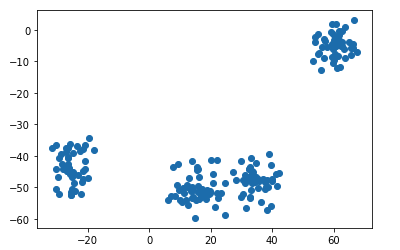
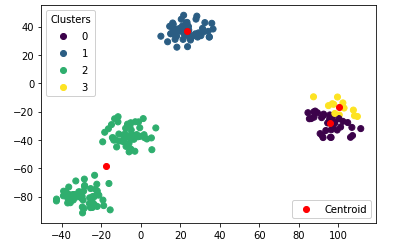
rebuilding site Thu Feb 27 19:12:35 PST 2020

Changed region(s): [[0.0304, 0.0, 0.9722, 0.98], [0.1519, 0.252, 0.1823, 0.308], [0.1519, 0.196, 0.1823, 0.224]]

diff --git a/posts/k-means-clustering/index.html b/posts/k-means-clustering/index.html
@@ -1173,7 +1173,7 @@ if (!doNotTrack) {
     <div class="single__meta">
       
 <div class="single__infos">
-  <time class="single__info" title="Written At">📅&nbsp;Feb 18, 2020 </time>  &middot; <span class="single__info" title="Reading Time"> ☕ 5 min read </span>
+  <time class="single__info" title="Written At">📅&nbsp;Feb 18, 2020 </time>  &middot; <span class="single__info" title="Reading Time"> ☕ 6 min read </span>
   <span class="single__info">
     
   </span>
@@ -1335,18 +1335,11 @@ Then gernate total n data points randomly within the radius r centering at each 
 </span><span class="lnt">51
 </span><span class="lnt">52
 </span><span class="lnt">53
-</span><span class="lnt">54
-</span><span class="lnt">55
-</span><span class="lnt">56
-</span><span class="lnt">57
-</span><span class="lnt">58
 </span></code></pre></td>
 <td class="lntd">
 <pre class="chroma"><code class="language-python" data-lang="python"><span class="c1"># calculate distance between two points</span>
 <span class="k">def</span> <span class="nf">dist</span><span class="p">(</span><span class="n">a</span><span class="p">,</span><span class="n">b</span><span class="p">)</span><span class="p">:</span>
-    <span class="n">d</span> <span class="o">=</span> <span class="p">(</span><span class="n">a</span><span class="p">[</span><span class="mi">0</span><span class="p">]</span><span class="o">-</span><span class="n">b</span><span class="p">[</span><span class="mi">0</span><span class="p">]</span><span class="p">)</span><span class="o">*</span><span class="o">*</span><span class="mi">2</span> <span class="o">+</span> <span class="p">(</span><span class="n">a</span><span class="p">[</span><span class="mi">1</span><span class="p">]</span><span class="o">-</span><span class="n">b</span><span class="p">[</span><span class="mi">1</span><span class="p">]</span><span class="p">)</span><span class="o">*</span><span class="o">*</span><span class="mi">2</span>
-    <span class="n">d</span> <span class="o">=</span> <span class="n">math</span><span class="o">.</span><span class="n">sqrt</span><span class="p">(</span><span class="n">d</span><span class="p">)</span>
-    <span class="k">return</span> <span class="n">d</span>
+    <span class="k">return</span> <span class="n">np</span><span class="o">.</span><span class="n">sum</span><span class="p">(</span><span class="p">(</span><span class="n">a</span> <span class="o">-</span> <span class="n">b</span><span class="p">)</span><span class="o">*</span><span class="o">*</span><span class="mi">2</span><span class="p">)</span>
 
 <span class="c1"># find xy coordinates of the centroid of a cluster</span>
 <span class="k">def</span> <span class="nf">cent_mass</span><span class="p">(</span><span class="n">data</span><span class="p">)</span><span class="p">:</span>
@@ -1358,10 +1351,7 @@ Then gernate total n data points randomly within the radius r centering at each 
 
 <span class="c1"># Assign initial k centroids by randomly selecting k samples from data</span>
 <span class="k">def</span> <span class="nf">init_centroid</span><span class="p">(</span><span class="n">k</span><span class="p">,</span><span class="n">data</span><span class="p">)</span><span class="p">:</span>
-    <span class="n">data_len</span> <span class="o">=</span> <span class="n">data</span><span class="o">.</span><span class="n">shape</span><span class="p">[</span><span class="mi">0</span><span class="p">]</span>
-    <span class="n">ind_rand</span> <span class="o">=</span> <span class="n">np</span><span class="o">.</span><span class="n">random</span><span class="o">.</span><span class="n">randint</span><span class="p">(</span><span class="n">low</span> <span class="o">=</span> <span class="mi">0</span><span class="p">,</span> <span class="n">high</span> <span class="o">=</span> <span class="n">data_len</span><span class="o">-</span><span class="mi">1</span><span class="p">,</span> <span class="n">size</span> <span class="o">=</span> <span class="n">k</span><span class="p">)</span>
-    <span class="n">k_init</span> <span class="o">=</span> <span class="n">data</span><span class="p">[</span><span class="n">ind_rand</span><span class="p">]</span>
-    <span class="k">return</span> <span class="n">k_init</span>
+    <span class="k">return</span> <span class="n">data</span><span class="p">[</span><span class="n">np</span><span class="o">.</span><span class="n">random</span><span class="o">.</span><span class="n">randint</span><span class="p">(</span><span class="n">data</span><span class="o">.</span><span class="n">shape</span><span class="p">[</span><span class="mi">0</span><span class="p">]</span><span class="p">,</span><span class="n">size</span> <span class="o">=</span> <span class="n">k</span><span class="p">)</span><span class="p">,</span><span class="p">:</span><span class="p">]</span>
 
 <span class="k">def</span> <span class="nf">k_means</span><span class="p">(</span><span class="n">k</span><span class="p">,</span><span class="n">data</span><span class="p">)</span><span class="p">:</span>
     <span class="n">k_init</span> <span class="o">=</span> <span class="n">init_centroid</span><span class="p">(</span><span class="n">k</span><span class="p">,</span> <span class="n">data</span><span class="p">)</span>
@@ -1435,13 +1425,104 @@ Then gernate total n data points randomly within the radius r centering at each 
 </div><p><image src="/kmeans/kmeans result.png"></image></p>
 <p>The result shows that the algorithm captures 3 clusters successfully.</p>
 <p>However, k-means clustering algorithm can be affected by the initial centroids when clusters are dispersed. For example, if two randomly selected initial centroids are located within the same cluster, they can be converged within the same cluster. Here is the example plots.</p>
-<p><image src="/kmeans/dispersed cluster result.png"></image></p>
-<p>This plot shows that two centroids on the left side are converged within the same cluster while the centroid at the bottom is converged with two clusters. In order to resolve this problem, we can add one additional steps.</p>
-<h2 id="additional-steps">Additional steps</h2>
-<ol start="5">
-<li>Iterate previous 1-4 steps multiple times and store the sum of variance of each cluster</li>
-<li>Find the centroids which make the total sum of variance of clusters to be minimum</li>
+<p><image src="/kmeans/dispersed cluster.png"></image></p>
+<p>This plot shows that two centroids on the right side are converged within the same cluster while the centroid on the left side is converged with two clusters. One way of resolving this problem is to make sure initial centroids are further apart. This method is called k-means++ algorithm.</p>
+<h2 id="k-means-algorithm">K-means++ algorithm</h2>
+<p>Now, instead of selecting random initial centroids from the data set, we first pick one centroid and then other centroids are selected based on maximum distance. Here is the steps of k-means++ algorithm.</p>
+<ol>
+<li>Pick one intial centroid randomly from the data set</li>
+<li>Compute distance of each data point from the centroid and assign a point which has the largest distance as the next centroid</li>
+<li>Compute the closest distance of each data point from each centroid</li>
+<li>Assign a point which has the maximum value as the next centroid</li>
+<li>Repeat 3 and 4 until k centroids are selected</li>
 </ol>
+<p>Here is the k-means++ code in python.</p>
+<div class="highlight"><div class="chroma">
+<table class="lntable"><tr><td class="lntd">
+<pre class="chroma"><code><span class="lnt"> 1
+</span><span class="lnt"> 2
+</span><span class="lnt"> 3
+</span><span class="lnt"> 4
+</span><span class="lnt"> 5
+</span><span class="lnt"> 6
+</span><span class="lnt"> 7
+</span><span class="lnt"> 8
+</span><span class="lnt"> 9
+</span><span class="lnt">10
+</span><span class="lnt">11
+</span><span class="lnt">12
+</span><span class="lnt">13
+</span><span class="lnt">14
+</span><span class="lnt">15
+</span><span class="lnt">16
+</span><span class="lnt">17
+</span><span class="lnt">18
+</span></code></pre></td>
+<td class="lntd">
+<pre class="chroma"><code class="language-python" data-lang="python"><span class="c1"># Select initial k centroids by finding a point which is farthest</span>
+<span class="k">def</span> <span class="nf">init_centroid_better</span><span class="p">(</span><span class="n">k</span><span class="p">,</span><span class="n">data</span><span class="p">)</span><span class="p">:</span>
+    <span class="n">k_init</span> <span class="o">=</span> <span class="p">[</span><span class="p">]</span>
+    <span class="n">k_init</span><span class="o">.</span><span class="n">append</span><span class="p">(</span><span class="n">data</span><span class="p">[</span><span class="n">np</span><span class="o">.</span><span class="n">random</span><span class="o">.</span><span class="n">randint</span><span class="p">(</span><span class="n">data</span><span class="o">.</span><span class="n">shape</span><span class="p">[</span><span class="mi">0</span><span class="p">]</span><span class="p">)</span><span class="p">,</span><span class="p">:</span><span class="p">]</span><span class="p">)</span>
+    <span class="k">for</span> <span class="n">i</span> <span class="ow">in</span> <span class="nb">range</span><span class="p">(</span><span class="n">k</span><span class="o">-</span><span class="mi">1</span><span class="p">)</span><span class="p">:</span>
+        <span class="n">distance</span> <span class="o">=</span> <span class="p">[</span><span class="p">]</span>
+        <span class="k">for</span> <span class="n">j</span> <span class="ow">in</span> <span class="nb">range</span><span class="p">(</span><span class="n">data</span><span class="o">.</span><span class="n">shape</span><span class="p">[</span><span class="mi">0</span><span class="p">]</span><span class="p">)</span><span class="p">:</span>
+            <span class="n">cur_data</span> <span class="o">=</span> <span class="n">data</span><span class="p">[</span><span class="n">j</span><span class="p">,</span><span class="p">:</span><span class="p">]</span>
+            <span class="n">dist_temp</span> <span class="o">=</span> <span class="p">[</span><span class="p">]</span>
+            <span class="k">for</span> <span class="n">k</span> <span class="ow">in</span> <span class="nb">range</span><span class="p">(</span><span class="nb">len</span><span class="p">(</span><span class="n">k_init</span><span class="p">)</span><span class="p">)</span><span class="p">:</span>
+                <span class="n">dist_centroid</span> <span class="o">=</span> <span class="n">dist</span><span class="p">(</span><span class="n">cur_data</span><span class="p">,</span><span class="n">k_init</span><span class="p">[</span><span class="n">k</span><span class="p">]</span><span class="p">)</span>
+                <span class="n">dist_temp</span><span class="o">.</span><span class="n">append</span><span class="p">(</span><span class="n">dist_centroid</span><span class="p">)</span>
+            <span class="n">d_min</span> <span class="o">=</span> <span class="nb">min</span><span class="p">(</span><span class="n">dist_temp</span><span class="p">)</span>
+            <span class="n">distance</span><span class="o">.</span><span class="n">append</span><span class="p">(</span><span class="n">d_min</span><span class="p">)</span>
+        <span class="n">ind_cent</span> <span class="o">=</span> <span class="n">np</span><span class="o">.</span><span class="n">argmax</span><span class="p">(</span><span class="n">distance</span><span class="p">)</span>
+        <span class="n">k_init</span><span class="o">.</span><span class="n">append</span><span class="p">(</span><span class="n">data</span><span class="p">[</span><span class="n">ind_cent</span><span class="p">]</span><span class="p">)</span>
+    <span class="n">k_init</span> <span class="o">=</span> <span class="n">np</span><span class="o">.</span><span class="n">array</span><span class="p">(</span><span class="n">k_init</span><span class="p">)</span>
+    <span class="k">return</span> <span class="n">k_init</span>     
+</code></pre></td></tr></table>
+</div>
+</div><p>Now we can replace the k-means clustering algorithm with better initialization algorithm.</p>
+<div class="highlight"><div class="chroma">
+<table class="lntable"><tr><td class="lntd">
+<pre class="chroma"><code><span class="lnt"> 1
+</span><span class="lnt"> 2
+</span><span class="lnt"> 3
+</span><span class="lnt"> 4
+</span><span class="lnt"> 5
+</span><span class="lnt"> 6
+</span><span class="lnt"> 7
+</span><span class="lnt"> 8
+</span><span class="lnt"> 9
+</span><span class="lnt">10
+</span><span class="lnt">11
+</span><span class="lnt">12
+</span><span class="lnt">13
+</span><span class="lnt">14
+</span><span class="lnt">15
+</span><span class="lnt">16
+</span><span class="lnt">17
+</span><span class="lnt">18
+</span></code></pre></td>
+<td class="lntd">
+<pre class="chroma"><code class="language-python" data-lang="python"><span class="k">def</span> <span class="nf">k_means</span><span class="p">(</span><span class="n">k</span><span class="p">,</span><span class="n">data</span><span class="p">)</span><span class="p">:</span>
+    
+    <span class="c1">#### K-means++ algorithm</span>
+    <span class="n">k_init</span> <span class="o">=</span> <span class="n">init_centroid_better</span><span class="p">(</span><span class="n">k</span><span class="p">,</span> <span class="n">data</span><span class="p">)</span> 
+    
+    <span class="n">breaker</span> <span class="o">=</span> <span class="bp">True</span>
+    <span class="k">while</span> <span class="n">breaker</span><span class="p">:</span>
+        <span class="c1"># label each data point with k-cluster</span>
+        <span class="n">cluster</span> <span class="o">=</span> <span class="p">[</span><span class="p">]</span>
+        <span class="k">for</span> <span class="n">i</span> <span class="ow">in</span> <span class="nb">range</span><span class="p">(</span><span class="nb">len</span><span class="p">(</span><span class="n">data</span><span class="p">)</span><span class="p">)</span><span class="p">:</span>
+            <span class="n">ksort</span> <span class="o">=</span> <span class="p">[</span><span class="p">]</span>
+            <span class="n">cur_p</span> <span class="o">=</span> <span class="n">data</span><span class="p">[</span><span class="n">i</span><span class="p">]</span>
+            <span class="k">for</span> <span class="n">j</span> <span class="ow">in</span> <span class="nb">range</span><span class="p">(</span><span class="n">k</span><span class="p">)</span><span class="p">:</span>
+
+                <span class="p">:</span>
+                <span class="p">:</span>
+                <span class="p">:</span>
+                <span class="c1"># rest of the code is the same </span>
+</code></pre></td></tr></table>
+</div>
+</div><p><image src="/kmeans/kmeans++.png"></image></p>
 <div class="highlight"><div class="chroma">
 <table class="lntable"><tr><td class="lntd">
 <pre class="chroma"><code><span class="lnt"> 1
@@ -2039,7 +2120,7 @@ document.addEventListener('DOMContentLoaded', function () {
         <li><a href="#test-k-means-clustering-algorithm">Test K-means clustering algorithm</a></li>
       </ul>
     </li>
-    <li><a href="#additional-steps">Additional steps</a>
+    <li><a href="#k-means-algorithm">K-means++ algorithm</a>
       <ul>
         <li><a href="#test-k-means-clustering-algorithm-1">Test K-means clustering algorithm</a></li>
       </ul>

diff --git a/index.html b/index.html
@@ -1194,7 +1194,7 @@ if (!doNotTrack) {
     <div class="summary-classic__content">
       <header>
         <h5 class="title h5"><a href='http://jihan1218.github.io/posts/k-means-clustering/'> K-Means Clustering</a> </h5>
-        <h6 class="subtitle caption"><time title="Written At" dir="ltr">📅 Feb 18, 2020 </time>  <span title="Reading Time" dir="ltr"> &middot; ☕ 5 min read </span></h6>
+        <h6 class="subtitle caption"><time title="Written At" dir="ltr">📅 Feb 18, 2020 </time>  <span title="Reading Time" dir="ltr"> &middot; ☕ 6 min read </span></h6>
       </header>
       <div>
         <div class="summary-classic__text p2">

diff --git a/posts/index.html b/posts/index.html
@@ -1178,7 +1178,7 @@ if (!doNotTrack) {
     <div class="summary-classic__content">
       <header>
         <h5 class="title h5"><a href='http://jihan1218.github.io/posts/k-means-clustering/'> K-Means Clustering</a> </h5>
-        <h6 class="subtitle caption"><time title="Written At" dir="ltr">📅 Feb 18, 2020 </time>  <span title="Reading Time" dir="ltr"> &middot; ☕ 5 min read </span></h6>
+        <h6 class="subtitle caption"><time title="Written At" dir="ltr">📅 Feb 18, 2020 </time>  <span title="Reading Time" dir="ltr"> &middot; ☕ 6 min read </span></h6>
       </header>
       <div>
         <div class="summary-classic__text p2">
